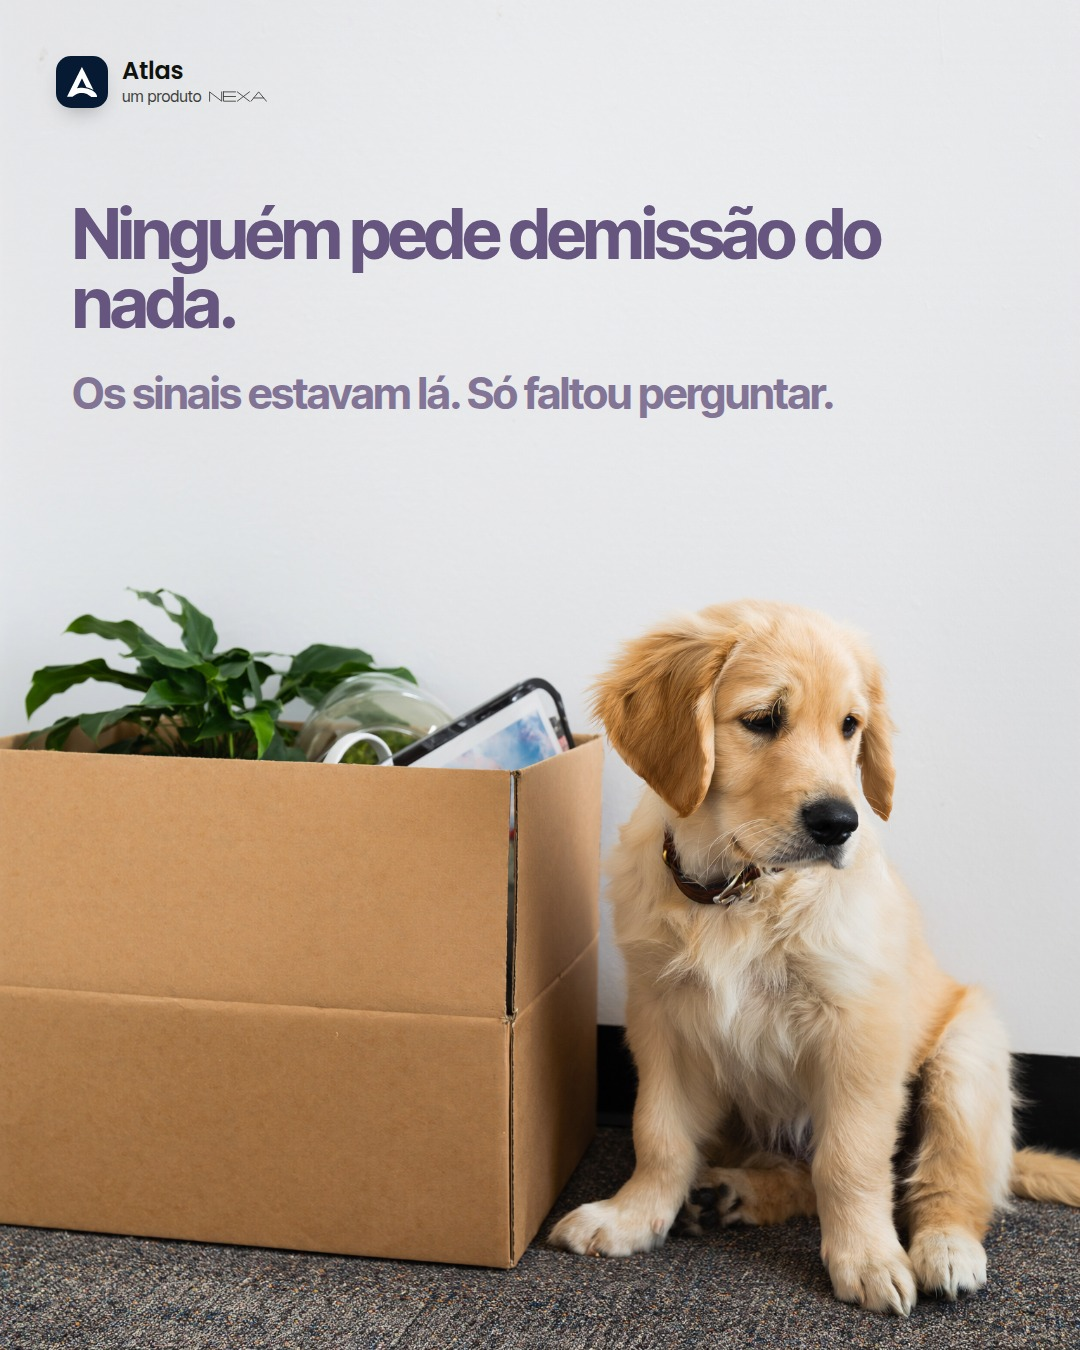
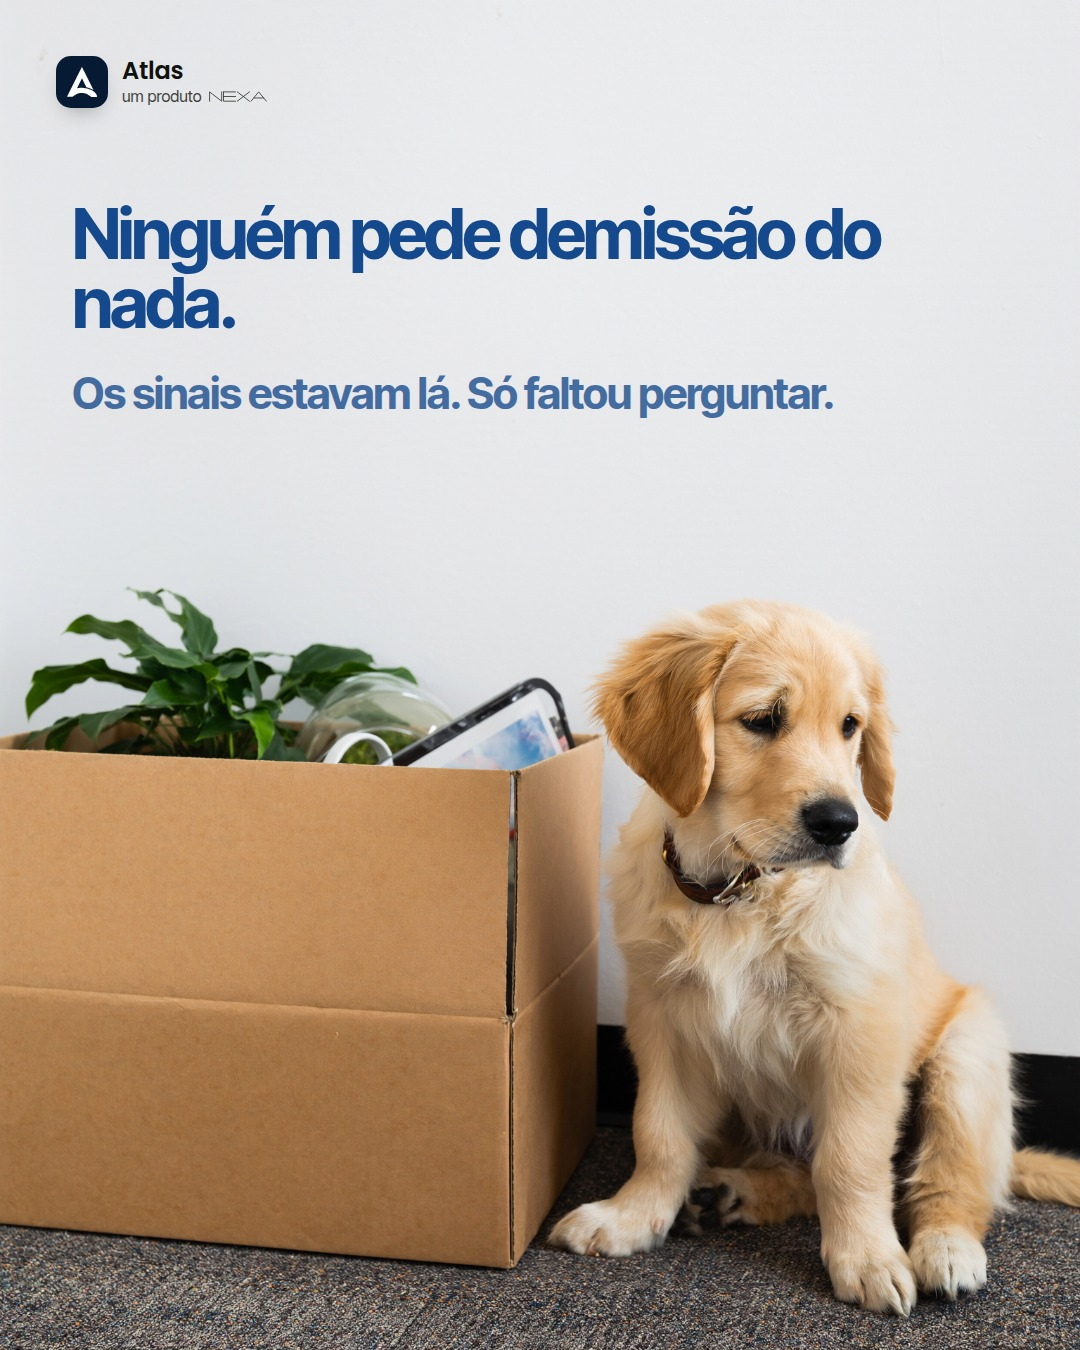
Carrossel Atlas: tipografia no azul do Atlas no lugar do lilás
Claude-Session: https://claude.ai/code/session_01D69rV6pxRKedanUm525i1S

Changed region(s): [[0.0611, 0.1556, 0.825, 0.2489], [0.0611, 0.28, 0.7639, 0.3111]]

diff --git a/social/carrossel-atlas-fofos/carrossel.html b/social/carrossel-atlas-fofos/carrossel.html
@@ -8,7 +8,7 @@
 <style>
 /* Carrossel no formato "verdades duras com imagens fofas" (1080×1350): foto fofa inteira em
    cenário de escritório e uma frase curta, apertada e pesada no espaço livre da foto (creme sobre
-   fundo escuro, lilás acinzentado sobre fundo claro). O último card é o produto: tela do Atlas e o
+   fundo escuro, azul do Atlas (#15498D) sobre fundo claro). O último card é o produto: tela do Atlas e o
    preço. "Atlas · um produto NEXA" em todos os cards. ?s=1..8 escolhe o card. */
 * { margin: 0; padding: 0; box-sizing: border-box; }
 html, body { width: 1080px; height: 1350px; overflow: hidden; }
@@ -20,7 +20,7 @@ body { position: relative; font-family: 'Inter Tight', sans-serif; -webkit-font-
 .fr i { font-style: italic; font-weight: 300; letter-spacing: -.04em; }
 .fr small { display: block; font-size: .62em; line-height: 1.04; margin-top: 34px; opacity: .78; letter-spacing: -.03em; }
 .creme { color: #f7f1c6; text-shadow: 0 2px 24px rgba(0,0,0,.25); }
-.lilas { color: #66557f; }
+.azul { color: #15498D; }
 
 /* Marca: Atlas · um produto NEXA */
 #marca { position: absolute; left: 56px; top: 56px; display: flex; align-items: center; gap: 14px; z-index: 5; }
@@ -82,12 +82,12 @@ body { position: relative; font-family: 'Inter Tight', sans-serif; -webkit-font-
 <!-- 1. Capa -->
 <section class="card" data-marca="escuro">
   <div class="ft" style="background-image:url(fotos/f1.jpg);background-position:50% 70%"></div>
-  <div class="fr lilas" style="left:72px;top:330px;font-size:96px;line-height:.94"><i>Verdades<br>duras</i><br><i>sobre</i><br>RH<br><i>com</i><br>imagens<br>fofas</div>
+  <div class="fr azul" style="left:72px;top:330px;font-size:96px;line-height:.94"><i>Verdades<br>duras</i><br><i>sobre</i><br>RH<br><i>com</i><br>imagens<br>fofas</div>
 </section>
 <!-- 2 -->
 <section class="card" data-marca="escuro">
   <div class="ft" style="background-image:url(fotos/f2.jpg);background-position:50% 100%"></div>
-  <div class="fr lilas" style="left:72px;right:160px;top:220px">Ninguém reclamar não significa que está tudo bem.</div>
+  <div class="fr azul" style="left:72px;right:160px;top:220px">Ninguém reclamar não significa que está tudo bem.</div>
 </section>
 <!-- 3 -->
 <section class="card" data-marca="claro">
@@ -97,12 +97,12 @@ body { position: relative; font-family: 'Inter Tight', sans-serif; -webkit-font-
 <!-- 4 -->
 <section class="card" data-marca="escuro">
   <div class="ft" style="background-image:url(fotos/f4.jpg);background-position:50% 100%"></div>
-  <div class="fr lilas" style="left:72px;right:180px;top:200px">Pesquisa de clima sem plano de ação é só mais um formulário.</div>
+  <div class="fr azul" style="left:72px;right:180px;top:200px">Pesquisa de clima sem plano de ação é só mais um formulário.</div>
 </section>
 <!-- 5 -->
 <section class="card" data-marca="escuro">
   <div class="ft" style="background-image:url(fotos/f5.jpg);background-position:50% 100%"></div>
-  <div class="fr lilas" style="left:72px;right:140px;top:200px">Ninguém pede demissão do nada.<small>Os sinais estavam lá. Só faltou perguntar.</small></div>
+  <div class="fr azul" style="left:72px;right:140px;top:200px">Ninguém pede demissão do nada.<small>Os sinais estavam lá. Só faltou perguntar.</small></div>
 </section>
 <!-- 6 -->
 <section class="card" data-marca="claro">

diff --git a/social/carrossel-atlas-fofos/README.md b/social/carrossel-atlas-fofos/README.md
@@ -2,7 +2,7 @@
 
 Formato da referência "verdades duras com imagens fofas": foto fofa inteira (bichinhos em cenário de
 escritório, geradas no Higgsfield soul/cinema) e uma frase curta, pesada e apertada no espaço livre da
-foto: creme sobre fundo escuro, lilás acinzentado sobre fundo claro. "Atlas · um produto NEXA" em todos.
+foto: creme sobre fundo escuro, azul do Atlas (#15498D) sobre fundo claro. "Atlas · um produto NEXA" em todos.
 
 1. Capa: Verdades duras sobre RH com imagens fofas (gatinho nas pastas)
 2. Ninguém reclamar não significa que está tudo bem. (filhote embaixo da mesa)
